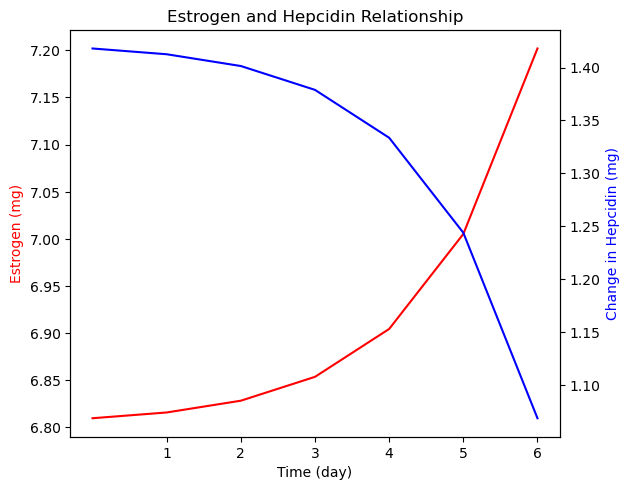
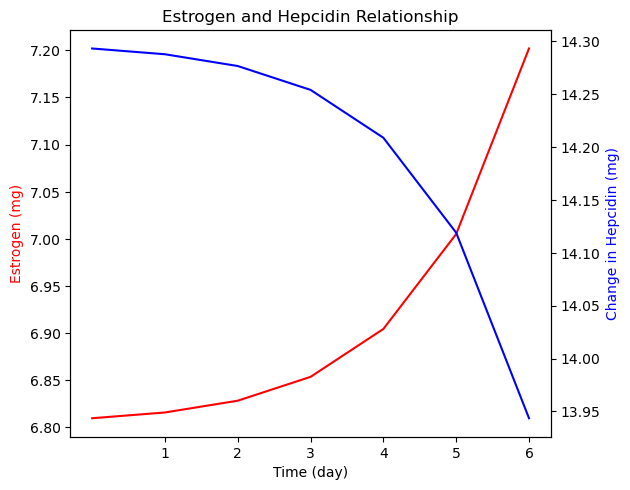
updated graphs

diff --git a/graphing.py b/graphing.py
@@ -18,7 +18,7 @@ plt.show()
 plt.close()
 
 #time vs accIron, accEstrogen, hepcidin in storage
-fig, (ax1, ax2, ax3) = plt.subplots(3, figsize=(6, 8))
+fig, (ax1, ax2) = plt.subplots(2, figsize=(6, 8))
 ax1.set_xlabel('Time (day)')
 ax1.set_ylabel('Iron in Storage (mg)')
 ax1.plot(e.time, e.ironStor)
@@ -26,21 +26,14 @@ ax1.tick_params(axis='y', labelcolor='black')
 ax1.set_xticks(range(0, 7))  # Set tick positions
 ax1.set_xticklabels(['0','1', '2', '3', '4', '5', '6'])  # Set tick labels
 
+
 ax2.set_xlabel('Time (day)')
-ax2.set_ylabel('Estrogen in Reproductive System (mg)')
-ax2.plot(e.time, e.est, color = 'orange')
-ax2.tick_params(axis='y', labelcolor='black')
-ax2.set_xticks(range(0, 7))  # Set tick positions
-ax2.set_xticklabels(['0', '1', '2', '3', '4', '5', '6'])
-
-
-ax3.set_xlabel('Time (day)')
-ax3.set_ylabel('Hepcidin in Storage (mg)')
-ax3.plot(e.time, e.hep, color='green')  # Remove the negative sign
+ax2.set_ylabel('Hepcidin in Storage (mg)')
+ax2.plot(e.time, e.hep, color='green')  # Remove the negative sign
 #ax3.tick_params(axis='y', labelcolor='black')
-ax3.set_xticks(range(0, 7))
-ax3.tick_params(axis='y', labelcolor='black')
-ax3.set_xticklabels(['0', '1', '2', '3', '4', '5', '6'])
+ax2.set_xticks(range(0, 7))
+ax2.tick_params(axis='y', labelcolor='black')
+ax2.set_xticklabels(['0', '1', '2', '3', '4', '5', '6'])
 #ax3.set_ylim(max(e.hep), min(e.hep))  # Reverse the order of limits
 #ax3.set_yticklabels([abs(tick) for tick in ax3.get_yticks()])
 fig.tight_layout()

diff --git a/initial_numbers.py b/initial_numbers.py
@@ -3,7 +3,7 @@
 
 
 #boolean controls which state we are in.
-anem = True
+anem = False
 
 z = 1 #placeholder
 c = 1 #placeholder to signal a value that changes based on day in the cycle
